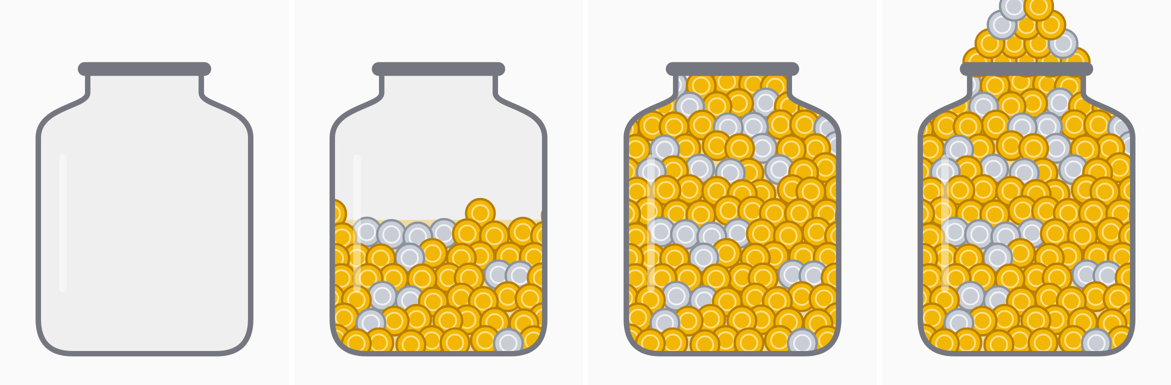
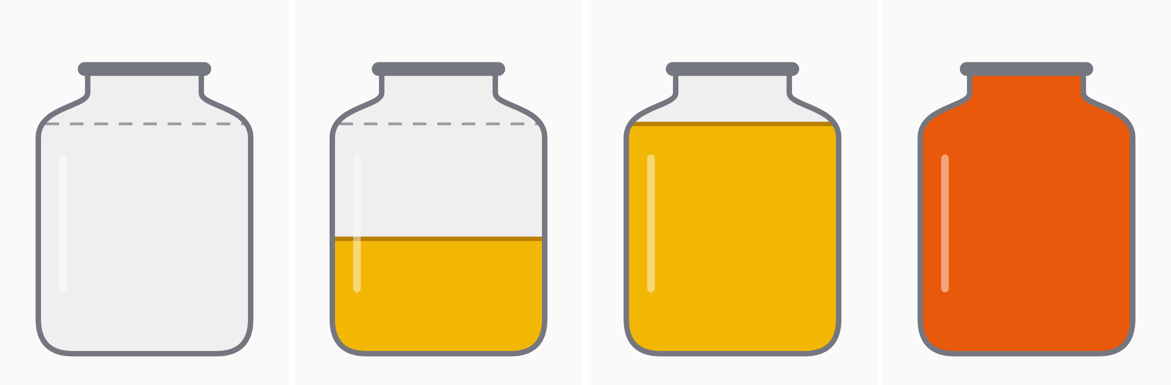
Draw the jar contents as a flat fill instead of coins
The fill rises to a dashed goal line; past the goal it continues up the
neck and deepens in colour. Removes the coin layout and coin-drop animation.

Claude-Session: https://claude.ai/code/session_01WCBagEShPeXpfmmHMS92KX

diff --git a/app/src/main/kotlin/com/swearjar/ui/jar/JarCanvas.kt b/app/src/main/kotlin/com/swearjar/ui/jar/JarCanvas.kt
@@ -1,7 +1,6 @@
 package com.swearjar.ui.jar
 
 import androidx.compose.animation.core.Animatable
-import androidx.compose.animation.core.FastOutLinearInEasing
 import androidx.compose.animation.core.LinearEasing
 import androidx.compose.animation.core.Spring
 import androidx.compose.animation.core.animateFloatAsState
@@ -22,12 +21,14 @@ import androidx.compose.ui.geometry.Offset
 import androidx.compose.ui.geometry.Size
 import androidx.compose.ui.graphics.Color
 import androidx.compose.ui.graphics.Path
+import androidx.compose.ui.graphics.PathEffect
 import androidx.compose.ui.graphics.StrokeCap
 import androidx.compose.ui.graphics.StrokeJoin
 import androidx.compose.ui.graphics.drawscope.DrawScope
 import androidx.compose.ui.graphics.drawscope.Stroke
 import androidx.compose.ui.graphics.drawscope.clipPath
 import androidx.compose.ui.graphics.drawscope.rotate
+import androidx.compose.ui.graphics.lerp
 import androidx.compose.ui.res.stringResource
 import androidx.compose.ui.semantics.contentDescription
 import androidx.compose.ui.semantics.semantics
@@ -44,15 +45,16 @@ import kotlin.random.Random
 /**
  * The jar. Drawn entirely from state, so it can be previewed and tested without a backend.
  *
+ * The contents are a flat fill that rises to a dashed goal line. Past the goal the fill
+ * carries on up the neck to the rim and deepens in colour.
+ *
  * @param fillFraction 0 is empty, 1 is at the goal, above 1 overflows (see `GoalRules.fillFraction`)
- * @param dropKey change this to drop a coin in; typically the number of entries in the round
  * @param celebrate true while the goal-reached celebration should play
  */
 @Composable
 fun JarCanvas(
     fillFraction: Float,
     modifier: Modifier = Modifier,
-    dropKey: Int = 0,
     celebrate: Boolean = false,
 ) {
     val fill by animateFloatAsState(
@@ -61,22 +63,12 @@ fun JarCanvas(
         label = "jarFill",
     )
 
-    val drop = remember { Animatable(1f) }
-    LaunchedEffect(dropKey) {
-        if (dropKey != 0) {
-            drop.snapTo(0f)
-            drop.animateTo(1f, tween(durationMillis = 550, easing = FastOutLinearInEasing))
-        }
-    }
-
     val confetti = remember { Animatable(0f) }
     LaunchedEffect(celebrate) {
         confetti.snapTo(0f)
         if (celebrate) confetti.animateTo(1f, tween(durationMillis = 2400, easing = LinearEasing))
     }
 
-    val coins = remember { coinLayout() }
-    val spill = remember { spillLayout() }
     val particles = remember { confettiLayout() }
     val glass = MaterialTheme.colorScheme.outline
     val description = stringResource(
@@ -93,45 +85,45 @@ fun JarCanvas(
         val h = size.height
         val jar = jarPath(w, h)
         val bottom = BOTTOM * h
-        val fullLine = FULL_LINE * h
-        val level = bottom - fill.coerceAtMost(1f) * (bottom - fullLine)
-        val coinRadius = COIN_RADIUS * w
+        val goalLine = GOAL_LINE * h
+        val rim = NECK_TOP * h
+        // 0..1 runs from the bottom to the goal line; 1..MAX_FILL from there up to the rim.
+        val over = ((fill - 1f) / (MAX_FILL - 1f)).coerceIn(0f, 1f)
+        val level = if (fill <= 1f) bottom - fill * (bottom - goalLine) else goalLine - over * (goalLine - rim)
+        val line = 0.022f * w
+        val contents = lerp(Gold, GoldOver, over)
 
         // Glass body.
         drawPath(jar, glass.copy(alpha = 0.08f))
 
         clipPath(jar) {
-            // A wash behind the coins so the gaps between them are not bare glass.
-            drawRect(
-                color = Gold.copy(alpha = 0.35f),
-                topLeft = Offset(0f, level),
-                size = Size(w, (bottom - level).coerceAtLeast(0f)),
-            )
-            for (coin in coins) {
-                val cy = coin.y * h
-                // Each coin sits a little above or below the line so the surface looks heaped.
-                if (fill > 0f && cy + coin.jitter * coinRadius >= level) {
-                    drawCoin(Offset(coin.x * w, cy), coinRadius, coin.silver)
-                }
+            if (fill > 0f) {
+                drawRect(
+                    color = contents,
+                    topLeft = Offset(0f, level),
+                    size = Size(w, bottom - level),
+                )
+                // The surface.
+                drawLine(
+                    color = lerp(GoldDark, GoldOverDark, over),
+                    start = Offset(0f, level),
+                    end = Offset(w, level),
+                    strokeWidth = line * 0.8f,
+                )
             }
-            // The coin on its way in.
-            if (drop.value < 1f) {
-                val from = -coinRadius
-                val to = (level - coinRadius).coerceAtLeast(NECK_TOP * h)
-                drawCoin(Offset(w / 2f, from + (to - from) * drop.value), coinRadius, silver = false)
-            }
-        }
-
-        // Past the goal: coins heap up out of the mouth.
-        if (fill > 1f) {
-            val shown = (((fill - 1f) / (MAX_FILL - 1f)) * spill.size).roundToInt()
-            for (coin in spill.take(shown)) {
-                drawCoin(Offset(coin.x * w, coin.y * h), coinRadius, coin.silver)
+            // Where the goal is, until the contents reach it.
+            if (fill < 1f) {
+                drawLine(
+                    color = glass.copy(alpha = 0.7f),
+                    start = Offset(0f, goalLine),
+                    end = Offset(w, goalLine),
+                    strokeWidth = line * 0.5f,
+                    pathEffect = PathEffect.dashPathEffect(floatArrayOf(line * 2.5f, line * 2f)),
+                )
             }
         }
 
         // Glass outline, rim and a highlight, on top of the contents.
-        val line = 0.022f * w
         drawPath(jar, glass, style = Stroke(width = line, join = StrokeJoin.Round))
         drawRoundRect(
             color = glass,
@@ -160,18 +152,15 @@ private const val MAX_FILL = 1.5f
 private const val NECK_TOP = 0.14f
 private const val SHOULDER = 0.25f
 private const val BOTTOM = 0.97f
-private const val FULL_LINE = 0.19f
+private const val GOAL_LINE = 0.30f
 private const val NECK_LEFT = 0.27f
 private const val RIM_LEFT = 0.23f
 private const val BODY_LEFT = 0.07f
-private const val COIN_RADIUS = 0.058f
 
 private val Gold = Color(0xFFF2B705)
 private val GoldDark = Color(0xFFB87F00)
-private val GoldLight = Color(0xFFFFE08A)
-private val Silver = Color(0xFFC9CED6)
-private val SilverDark = Color(0xFF8C939E)
-private val SilverLight = Color(0xFFF1F3F6)
+private val GoldOver = Color(0xFFE8590C)
+private val GoldOverDark = Color(0xFFA63D00)
 private val ConfettiColors = listOf(
     Color(0xFFE5484D), Color(0xFF3E9BFF), Color(0xFF46A758), Color(0xFFF2B705), Color(0xFF8E4EC6),
 )
@@ -196,59 +185,6 @@ private fun jarPath(w: Float, h: Float): Path = Path().apply {
     cubicTo(bodyR, shoulder, neckR, shoulder, neckR, shoulder - 0.04f * h)
     lineTo(neckR, neckTop)
     close()
-}
-
-private class Coin(val x: Float, val y: Float, val jitter: Float, val silver: Boolean)
-
-/** Staggered rows of coins covering the whole jar interior; the fill level decides which show. */
-private fun coinLayout(): List<Coin> {
-    val random = Random(7)
-    val coins = mutableListOf<Coin>()
-    val stepX = COIN_RADIUS * 1.75f
-    val stepY = COIN_RADIUS * 1.5f * JAR_ASPECT
-    var y = BOTTOM - COIN_RADIUS * JAR_ASPECT * 0.8f
-    var row = 0
-    while (y > NECK_TOP) {
-        var x = BODY_LEFT + (if (row % 2 == 0) 0f else stepX / 2f)
-        while (x < 1f - BODY_LEFT + stepX) {
-            coins += Coin(
-                x = x + (random.nextFloat() - 0.5f) * stepX * 0.3f,
-                y = y + (random.nextFloat() - 0.5f) * stepY * 0.3f,
-                jitter = random.nextFloat() * 2f - 1f,
-                silver = random.nextInt(6) == 0,
-            )
-            x += stepX
-        }
-        y -= stepY
-        row++
-    }
-    // Draw from the top down so lower coins overlap the ones behind and above them.
-    return coins.sortedBy { it.y }
-}
-
-/** A mound above the mouth, built from the middle outwards, for an overflowing jar. */
-private fun spillLayout(): List<Coin> {
-    val random = Random(11)
-    val rows = listOf(5, 4, 3, 2)
-    val coins = mutableListOf<Coin>()
-    rows.forEachIndexed { rowIndex, count ->
-        val y = NECK_TOP - 0.02f - rowIndex * COIN_RADIUS * 1.3f * JAR_ASPECT
-        val order = (0 until count).sortedBy { kotlin.math.abs(it - (count - 1) / 2f) }
-        for (i in order) {
-            val x = 0.5f + (i - (count - 1) / 2f) * COIN_RADIUS * 1.7f
-            coins += Coin(x, y, 0f, silver = random.nextInt(6) == 0)
-        }
-    }
-    return coins
-}
-
-private fun DrawScope.drawCoin(center: Offset, radius: Float, silver: Boolean) {
-    val face = if (silver) Silver else Gold
-    val edge = if (silver) SilverDark else GoldDark
-    val shine = if (silver) SilverLight else GoldLight
-    drawCircle(face, radius, center)
-    drawCircle(edge, radius, center, style = Stroke(width = radius * 0.16f))
-    drawCircle(shine, radius * 0.58f, center, style = Stroke(width = radius * 0.12f))
 }
 
 private class Particle(val angle: Float, val speed: Float, val spin: Float, val color: Color, val size: Float)

diff --git a/app/src/main/kotlin/com/swearjar/ui/jarhome/JarHomeScreen.kt b/app/src/main/kotlin/com/swearjar/ui/jarhome/JarHomeScreen.kt
@@ -97,7 +97,6 @@ private fun JarHomeContent(
             JarCanvas(
                 fillFraction = state.fillFraction,
                 modifier = Modifier.fillMaxWidth(0.6f),
-                dropKey = state.entryCount,
                 celebrate = celebrating,
             )
 

diff --git a/HANDOVER.md b/HANDOVER.md
@@ -56,8 +56,8 @@ and complete with `npx -y firebase-tools@latest login <code>`.
 | App shell: theme, Hilt, activity, nav host, icon | `app/src/main` | Compiles |
 | Firebase SDK wiring, Hilt module | `app/build.gradle.kts`, `app/.../di` | Compiles |
 | Google sign-in, sign-out, profile write | `app/.../data/auth`, `ui/signin`, `ui/session` | Compiles; never run |
-| Jar drawing: fill, overflow | `app/.../ui/jar/JarCanvas.kt` | Rendered and checked (`docs/jar-states.png`) |
-| Jar animations: coin drop, confetti | same | Compiles; never seen |
+| Jar drawing: flat fill to a dashed goal line, overflow up the neck | `app/.../ui/jar/JarCanvas.kt` | Rendered and checked (`docs/jar-states.png`) |
+| Jar animations: rising fill, confetti | same | Compiles; never seen |
 | Jar screen on an in-memory demo jar | `app/.../ui/jarhome` | Compiles; never run |
 
 ## Next steps, in order
@@ -107,6 +107,8 @@ member can never set or raise their own role.
   SDK licence. Maven Central sometimes answers 429; wait and retry.
 - **The user's support email is in `firebase.json`**, at their request, for the Google
   sign-in consent screen.
+- **The jar is a flat fill, not coins**, at the user's request ("simply a line"). Do not
+  reintroduce coins.
 - **Demo jar is temporary.** `JarHomeViewModel` holds an in-memory jar and the screen shows
   a banner saying so. Remove both in step 3.
 - **Escalation needs a count.** `PricingRules.priceFor` takes `priorOffences`: the

diff --git a/README.md b/README.md
@@ -38,7 +38,7 @@ cd firestore-tests && npm install && npm test
 
 ## Status
 
-Built: project scaffold, rules engine with tests, the animated jar, a jar screen running on
+Built: project scaffold, rules engine with tests, the jar that fills towards its goal, a jar screen running on
 an in-memory demo jar, Google sign-in, and Firestore rules for user profiles. The app builds;
 sign-in has not yet been tried on a device. See `HANDOVER.md`.
 
